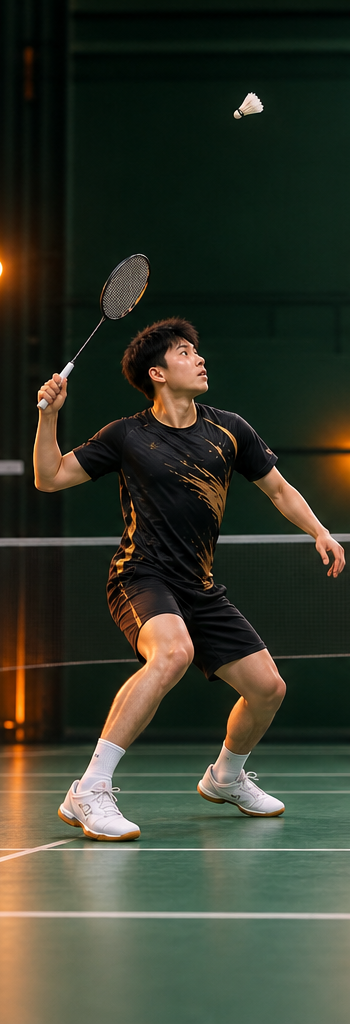
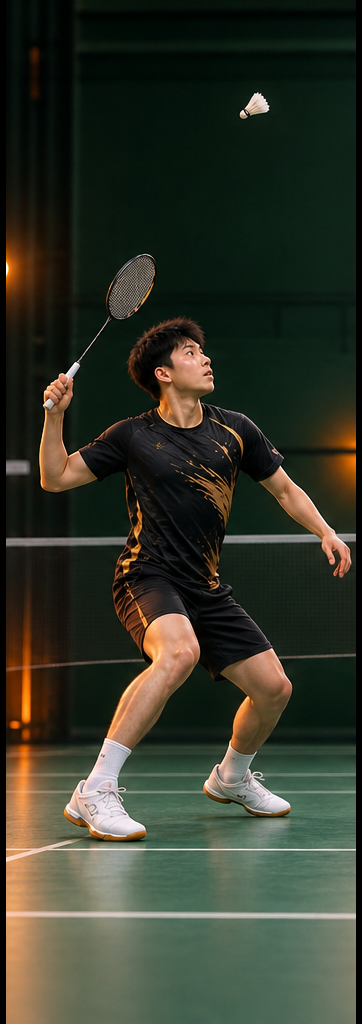
Align force action image frames

diff --git a/app/globals.css b/app/globals.css
@@ -167,15 +167,15 @@ button:focus-visible, a:focus-visible { outline: 2px solid var(--orange); outlin
 .path-action-group-row span:nth-child(3) { border-top-color: var(--orange); }
 .path-action-group-row small { color: rgba(245, 242, 233, .5); font-size: 9px; letter-spacing: .02em; }
 .path-action-grid { display: grid; grid-template-columns: repeat(7, minmax(0, 1fr)); gap: 7px; margin-top: 7px; overflow-x: auto; padding-bottom: 4px; }
-.path-action-card { position: relative; display: grid; grid-template-rows: minmax(360px, 38vw) auto; min-width: 0; padding: 0; overflow: hidden; border: 1px solid var(--white-line); color: var(--paper); background: rgba(20, 37, 30, .46); text-align: left; scroll-snap-align: start; transition: border-color .2s ease, background .2s ease, transform .2s ease; }
+.path-action-card { position: relative; display: grid; grid-template-rows: auto auto; min-width: 0; padding: 0; overflow: hidden; border: 1px solid var(--white-line); color: var(--paper); background: rgba(20, 37, 30, .46); text-align: left; scroll-snap-align: start; transition: border-color .2s ease, background .2s ease, transform .2s ease; }
 .path-action-card::before { content: ''; position: absolute; z-index: 2; top: -1px; right: -1px; left: -1px; height: 3px; background: var(--orange-soft); }
 .path-action-card-speed::before { background: var(--mint); }
 .path-action-card-next::before { background: var(--orange); }
 .path-action-card:hover, .path-action-card.active { border-color: var(--orange-soft); background: var(--forest-2); transform: translateY(-2px); }
 .path-action-card.active { box-shadow: inset 0 -3px 0 var(--orange-soft); }
 .path-action-card-index { position: absolute; z-index: 3; top: 11px; left: 10px; color: var(--orange-soft); font: 10px var(--mono); }
-.path-action-card-image { display: grid; place-items: center; min-width: 0; min-height: 0; overflow: hidden; background: #10251d; }
-.path-action-card-image img { display: block; width: 100%; height: 100%; object-fit: contain; }
+.path-action-card-image { display: grid; place-items: center; min-width: 0; min-height: 0; aspect-ratio: 362 / 1024; overflow: hidden; background: #10251d; }
+.path-action-card-image img { display: block; width: 100%; height: 100%; object-fit: cover; }
 .path-action-card-caption { display: grid; gap: 6px; min-height: 77px; padding: 10px 10px 12px; border-top: 1px solid var(--white-line); background: rgba(9, 24, 18, .68); }
 .path-action-card-caption b { color: var(--orange-soft); font: 9px var(--mono); font-weight: 400; }
 .path-action-card-caption strong { color: var(--paper); font-size: 12px; font-weight: 400; line-height: 1.35; }
@@ -755,7 +755,6 @@ button:focus-visible, a:focus-visible { outline: 2px solid var(--orange); outlin
   .path-action-group-row span { padding: 8px 7px 7px; }
   .path-action-group-row small { font-size: 8px; }
   .path-action-grid { grid-template-columns: repeat(7, minmax(126px, 1fr)); }
-  .path-action-card { grid-template-rows: 390px auto; }
   .path-action-card-caption { min-height: 72px; padding: 9px 8px 10px; }
   .path-action-card-caption strong { font-size: 11px; }
   .path-reading-inline { grid-template-columns: 1fr; gap: 0; padding: 20px; }
